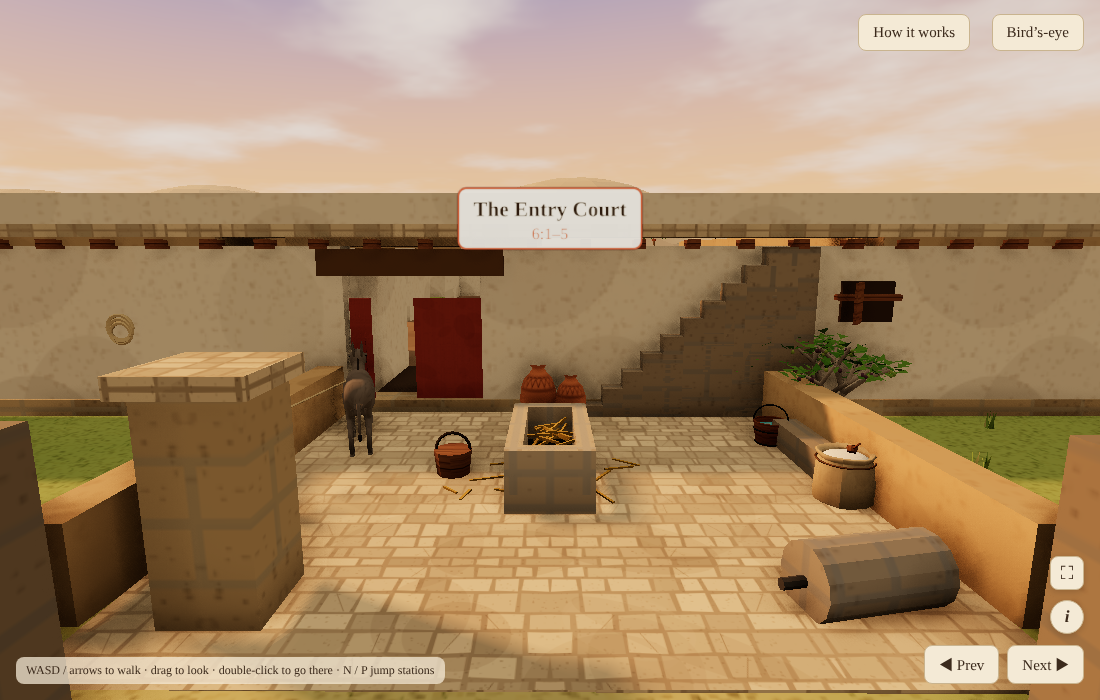
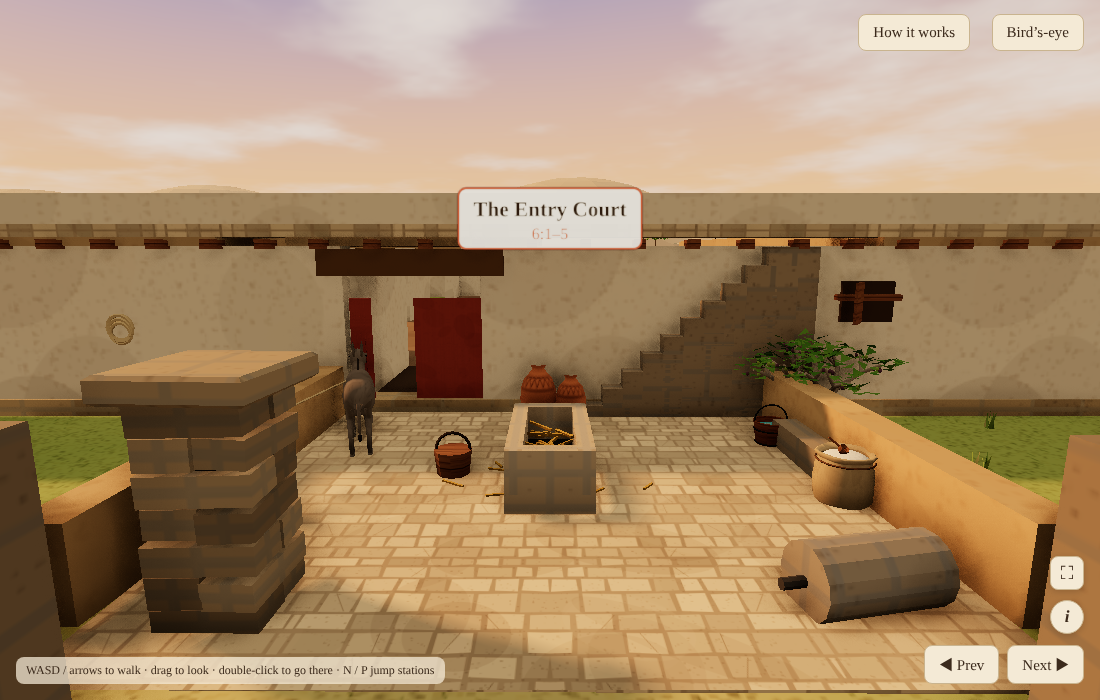
som-ltm: owner critiques — splotchy burn floor, defined charcoal mound, freestanding hive stack and bank end, stone pier, stall roof purlins, rock boundary stone, scarecrow model
Claude-Session: https://claude.ai/code/session_011GTaBjBmrRYMxR8CbFEKPF

diff --git a/ltm-engine/objects/som.js b/ltm-engine/objects/som.js
@@ -195,15 +195,17 @@ def('som-resting-stone', 'Resting stone at the fork of the road', g => {
 
 // ---- the Charcoal Burners' Clearing (5:26–30), rebuilt 2026-11-18 ----
 def('som-charcoal-mound', 'Charcoal burner\'s mound, smoking', g => {
-  const earthD = MM('somEarthDk', '#6a5640', TEX.plaster), turfG = MM('somTurfG', '#5d6a34'), soil = MM('somSoilClod', '#7a6244'), soot = MM('somSoot', '#1e1a16');
-  const geo = new THREE.SphereGeometry(1.55, 22, 12, 0, 6.3, 0, 1.57); const p = geo.attributes.position; for (let i = 0; i < p.count; i++) { const x = p.getX(i), y = p.getY(i), z = p.getZ(i), n = 1 + .07 * Math.sin(x * 5.1 + z * 3.3) + .05 * Math.sin(z * 6.7 - y * 4); p.setXYZ(i, x * n, y * .78 * n, z * n); } geo.computeVertexNormals();
-  add(geo, earthD, 0, 0, 0, g);   // a lumpy dome of earth over the stacked wood
-  for (let i = 0; i < 40; i++) { const a = R(0, 6.3), t = R(.1, 1.25), r = 1.55 * Math.cos(t), y = 1.2 * Math.sin(t); const c = add(new THREE.DodecahedronGeometry(R(.1, .2), 0), i % 3 ? soil : turfG, Math.cos(a) * r, y * .98, Math.sin(a) * r, g); c.scale.y = .5; c.lookAt(0, -3, 0); }   // clods and turves pressed over it
-  for (let k = 0; k < 8; k++) { const a = k / 8 * 6.28 + .2; add(new THREE.CircleGeometry(.08, 6), soot, Math.cos(a) * 1.56, .25, Math.sin(a) * 1.56, g).lookAt(Math.cos(a) * 9, .25, Math.sin(a) * 9); }   // vent holes round the foot
-  cy(g, .18, .22, .08, 10, soot, 0, 1.18, 0);
-  const smoke = new THREE.Group(); g.add(smoke); for (let k = 0; k < 6; k++) { const s = add(new THREE.SphereGeometry(.25 + k * .1, 8, 6), MM('somSmokeThin', '#e2ded6', null, { transparent: true, opacity: .2 - k * .02, depthWrite: false }), k * .32, 1.4 + k * .38, k * .08, smoke); s.scale.set(1.5, .7, 1.2); }   // a thin plume drifting off with the wind   // a soft drifting plume
-  const rk = new THREE.Group(); rk.position.set(1.75, 0, .5); rk.rotation.set(0, -.3, .5); g.add(rk); cy(rk, .03, .03, 2.0, 5, mWoodLt, 0, 0, 0); bx(rk, .5, .06, .08, mWoodDk, 0, 2.0, 0); for (let k = 0; k < 5; k++) cy(rk, .015, .015, .16, 4, mWoodDk, -.2 + k * .1, 2.0, 0);   // the rake leaning, its foot on the ground
-  return 1.35; });
+  const turf = MM('somTurfSq', '#55603a', TEX.stone), earth = MM('somEarthCov', '#6a5440', TEX.plaster), soot = MM('somSoot', '#1e1a16'), bark = MM('somBark2', '#7a6046', TEX.wood), cut = MM('somCutFace2', '#ecd29c');
+  // the stack: billets stood on end in rings round a central chimney, a cone
+  for (let ring = 0; ring < 4; ring++) { const r = .25 + ring * .38, n = 8 + ring * 6, hgt = 1.5 - ring * .3; for (let k = 0; k < n; k++) { const a = k / n * 6.283; const b = cy(g, .07, .08, hgt, 6, bark, Math.cos(a) * r, 0, Math.sin(a) * r); b.rotation.set(Math.sin(a) * .25, 0, -Math.cos(a) * .25); cy(g, .07, .07, .02, 6, cut, Math.cos(a) * (r - .1), hgt - .02, Math.sin(a) * (r - .1)); } }
+  // the earth cover, laid over most of it but not yet over the near side, so the stacked wood shows
+  const geo = new THREE.SphereGeometry(1.62, 22, 10, 2.41, 4.6, 0, 1.45); const p = geo.attributes.position; for (let i = 0; i < p.count; i++) { const x = p.getX(i), y = p.getY(i), z = p.getZ(i); p.setXYZ(i, x, y * .95, z); } geo.computeVertexNormals(); const cov = add(geo, earth, 0, 0, 0, g); cov.material.side = THREE.DoubleSide;
+  for (let i = 0; i < 46; i++) { const a = R(2.5, 6.9), t = R(.15, 1.25), r = 1.63 * Math.sin(Math.PI / 2 - t), y = 1.55 * Math.sin(t); const tf = add(new THREE.BoxGeometry(R(.3, .42), .06, R(.22, .3)), turf, -Math.cos(a) * r, y, Math.sin(a) * r, g); tf.lookAt(0, -2, 0); tf.rotateX(Math.PI / 2); }   // square turves pressed onto the earth
+  for (let k = 0; k < 6; k++) { const a = 2.7 + k * .75; add(new THREE.CircleGeometry(.08, 6), soot, -Math.cos(a) * 1.64, .25, Math.sin(a) * 1.64, g).lookAt(-Math.cos(a) * 9, .25, Math.sin(a) * 9); }
+  cy(g, .17, .2, .1, 10, soot, 0, 1.5, 0);
+  const smoke = new THREE.Group(); g.add(smoke); for (let k = 0; k < 6; k++) { const s = add(new THREE.SphereGeometry(.25 + k * .1, 8, 6), MM('somSmokeThin', '#e2ded6', null, { transparent: true, opacity: .2 - k * .02, depthWrite: false }), k * .32, 1.75 + k * .38, k * .08, smoke); s.scale.set(1.5, .7, 1.2); }
+  const rk = new THREE.Group(); rk.position.set(1.85, 0, -.6); rk.rotation.set(0, .3, .45); g.add(rk); cy(rk, .03, .03, 2.0, 5, mWoodLt, 0, 0, 0); bx(rk, .5, .06, .08, mWoodDk, 0, 2.0, 0); for (let k = 0; k < 5; k++) cy(rk, .015, .015, .16, 4, mWoodDk, -.2 + k * .1, 2.0, 0);
+  return 1.6; });
 def('som-cut-stumps', 'Row of freshly cut stumps', g => {
   const cut = MM('somCutFace2', '#ecd29c'), bark = MM('somBark2', '#7a6046', TEX.wood);
   for (const [x, z, r, h, tilt] of [[-1.4, .2, .3, .45, .2], [0, -.25, .38, .35, -.18], [1.45, .25, .28, .55, .25]]) { lathe(g, [[0, 0], [r * 1.7, 0], [r * 1.3, .07], [r * 1.05, .18], [r, h], [0, h]], bark, x, -.02, z, 12);   // stumps flaring into the ground
@@ -225,21 +227,36 @@ def('som-charcoal-baskets', 'Rush baskets heaped with charcoal', g => {
     for (let i = 0; i < 34; i++) { const a = R(0, 6.3), d = Math.sqrt(R(0, 1)) * .36 * s; add(new THREE.DodecahedronGeometry(R(.05, .085), 0), coal, x + Math.cos(a) * d, .38 * s + (1 - d / (.36 * s)) * .2, z + Math.sin(a) * d, g).rotation.set(R(0, 3), R(0, 3), 0); } }   // a mounded heap of dark grey chunks
   return .7; });
 def('som-ash-ring', 'Old burn floor of an earlier mound', g => {
-  const floor = MM('somBurnFloor', '#4a4540'), coal = MM('somCoalG2', '#2e2b28'), ash = MM('somAshL', '#9c9890');
-  const rg = add(new THREE.CircleGeometry(1.7, 26), floor, 0, .05, 0, g); rg.rotation.x = -Math.PI / 2;   // a grey-black burn floor
-  for (let i = 0; i < 12; i++) { const p = add(new THREE.CircleGeometry(R(.12, .3), 7), ash, R(-1.1, 1.1), .055, R(-1.1, 1.1), g); p.rotation.x = -Math.PI / 2; }   // flecks of ash
-  for (let i = 0; i < 40; i++) { const a = R(0, 6.3), d = Math.sqrt(R(0, 1)) * 1.6; const c = add(new THREE.DodecahedronGeometry(R(.03, .07), 0), coal, Math.cos(a) * d, .06, Math.sin(a) * d, g); c.scale.y = .5; }   // charcoal flecks all over it
+  const floor = MM('somBurnFloor', '#4a4540'), floor2 = MM('somBurnFloor2', '#5c544a', null, { transparent: true, opacity: .7 }), coal = MM('somCoalG2', '#2e2b28'), ash = MM('somAshL', '#9c9890');
+  const blot = (r, m, y, n = 14) => { const sh = new THREE.Shape(); for (let i = 0; i < n; i++) { const a = i / n * 6.283, rr = r * R(.6, 1.15); i ? sh.lineTo(Math.cos(a) * rr, Math.sin(a) * rr) : sh.moveTo(Math.cos(a) * rr, Math.sin(a) * rr); } const o = add(new THREE.ShapeGeometry(sh), m, 0, y, 0, g); o.rotation.x = -Math.PI / 2; return o; };
+  blot(1.5, floor, .05, 18);   // a ragged-edged patch of blackened earth
+  for (let i = 0; i < 9; i++) { const o = blot(R(.3, .7), i % 2 ? floor : floor2, .045 + i * .001, 9); o.position.x = R(-1.6, 1.6); o.position.z = R(-1.6, 1.6); }   // smudges spilling past the edge
+  for (let i = 0; i < 7; i++) { const o = blot(R(.15, .35), ash, .056, 8); o.position.x = R(-.9, .9); o.position.z = R(-.9, .9); }   // drifts of ash
+  for (let i = 0; i < 40; i++) { const a = R(0, 6.3), d = Math.sqrt(R(0, 1)) * 1.6; const c = add(new THREE.DodecahedronGeometry(R(.03, .07), 0), coal, Math.cos(a) * d, .06, Math.sin(a) * d, g); c.scale.y = .5; }
   return .1; });
 
 // ---- the Bee Bank (5:31–35), rebuilt 2026-11-18: one walled bank, the hive pipes set into its far end ----
-def('som-bee-wall', 'Bee wall: a mud-plastered stone bank with hive pipes set in it', g => {
-  const mud = MM('somBeeMud2', '#a99472', TEX.plaster), plug = MM('somPipePlug2', '#d9c7a2', TEX.plaster), rim = MM('somPipeRim', '#c9a27a', TEX.pot);
-  const L = 5.2;
-  bx(g, L - .4, .95, .9, mud, .2, 0, -.05); dryWall(g, -2.3, .42, 2.4, .42, .35, .12);   // the bank, plastered, its stone footing showing
-  for (let i = 0; i < 10; i++) { const p = add(new THREE.CircleGeometry(R(.08, .14), 6), mRock, R(-2.2, 2.3), R(.4, .85), .405, g); }   // stones showing through the plaster
-  lathe(g, [[0, 0], [.55, 0], [.52, .5], [.46, .85], [.3, 1.0], [0, 1.03]], mud, -L / 2 + .25, 0, -.05, 14);   // its near end rounded off in the same mud
-  for (let row = 0; row < 3; row++) for (let k = 0; k < 4 - row; k++) { const x = .55 + k * .44 + row * .22, y = .24 + row * .32; cy(g, .19, .19, .08, 14, rim, x, y, .42, Math.PI / 2); cy(g, .16, .16, .02, 12, plug, x, y, .465, Math.PI / 2); add(new THREE.CircleGeometry(.04, 8), mDark, x, y - .06, .478, g); }   // only the ends of the clay pipes show, set deep in the bank, each sealed with mud and a small entrance
-  for (let i = 0; i < 22; i++) { const b = add(new THREE.SphereGeometry(.022, 5, 4), MM('somBee', '#3a2a10'), R(.4, 2.2), R(.15, 1.0), R(.55, .9), g); b.scale.x = 1.7; }
-  return 1.05; });
+def('som-bee-wall', 'Freestanding stack of clay hive pipes on a stone base', g => {
+  const pipe = MM('somPipeLong', '#c9a27a', TEX.pot), plug = MM('somPipePlug2', '#d9c7a2', TEX.plaster), cap = MM('somCapSlab', '#b8ae9a', TEX.stone);
+  for (let i = 0; i < 9; i++) boulder(g, R(.22, .3), i % 2 ? mRock : mRockDk, -.75 + (i % 5) * .38 + R(-.05, .05), -.05, -.25 + Math.floor(i / 5) * .45, .55);   // a low base of field stones
+  const rows = [4, 3, 2]; rows.forEach((n, row) => { for (let k = 0; k < n; k++) { const x = (k - (n - 1) / 2) * .4, y = .45 + row * .34; cy(g, .17, .17, 1.1, 14, pipe, x, y, 0, Math.PI / 2); cy(g, .15, .15, .02, 12, plug, x, y, .56, Math.PI / 2); add(new THREE.CircleGeometry(.035, 8), mDark, x, y - .06, .575, g); } });   // long clay pipes stacked 4-3-2, mud-sealed ends with a small entrance
+  slab(g, .95, .1, cap, 0, 1.35, 0, 7);   // a flat stone laid on top to shade them
+  for (let i = 0; i < 16; i++) { const b = add(new THREE.SphereGeometry(.02, 5, 4), MM('somBee', '#3a2a10'), R(-.7, .7), R(.35, 1.2), R(.62, .9), g); b.scale.x = 1.7; }
+  return 1.45; });
+
+
+def('som-bank-end', 'Low end of a field bank, capped with a flat stone', g => {
+  for (let i = 0; i < 14; i++) boulder(g, R(.22, .32), i % 3 ? mRock : mRockDk, R(-.6, .6), i < 9 ? 0 : .22, R(-.4, .4), .75);   // a rough heap of field stones
+  slab(g, .7, .14, MM('somCapStone2', '#cdc3ae', TEX.stone), 0, .5, 0, 7); thornBush(g, .7, 0, -.5, .6);
+  return .9; });
+def('som-scarecrow', 'Scarecrow in an old robe', g => {
+  const robe = MM('somRagRobe', '#8a6a4a', TEX.cloth), sash = MM('somRagSash', '#a8523a', TEX.cloth);
+  cy(g, .045, .05, 2.3, 6, mWood, 0, 0, 0); cy(g, .035, .035, 1.5, 6, mWood, 0, 1.65, 0, 0, 0, Math.PI / 2);   // pole and cross-stick
+  const rb = lathe(g, [[0, 0], [.42, 0], [.36, .2], [.28, .6], [.22, .95], [.14, 1.05], [0, 1.08]], robe, 0, .75, 0, 12); rb.material.side = THREE.DoubleSide;   // a long robe hanging from the shoulders
+  for (const s of [-1, 1]) { const sl = cy(g, .1, .14, .62, 8, robe, s * .45, 1.62, 0, 0, 0, Math.PI / 2); for (let k = 0; k < 4; k++) cy(g, .012, .012, R(.15, .25), 3, MM('somStrawM2', '#e2c464'), s * .78, 1.62 + R(-.06, .06), R(-.06, .06), 0, 0, Math.PI / 2 + R(-.4, .4)); }   // sleeves, straw poking from the cuffs
+  add(new THREE.TorusGeometry(.2, .035, 5, 14), sash, 0, 1.35, 0, g).rotation.x = Math.PI / 2;   // a rag sash
+  const hd = add(new THREE.SphereGeometry(.17, 10, 8), MM('somBurlap', '#c8b07a', TEX.cloth), 0, 2.0, 0, g); hd.scale.y = 1.15;   // a sacking head
+  lathe(g, [[0, 0], [.32, 0], [.3, .03], [.14, .06], [.12, .2], [0, .22]], MM('somStrawHat', '#d8b860', TEX.wicker), 0, 2.13, 0, 12);   // a straw hat
+  return 2.4; });
 
 }

diff --git a/som-ltm/world/farm.js b/som-ltm/world/farm.js
@@ -50,7 +50,11 @@ defBuilder('som.court', (r, { ch }) => { const F = roomFrame(r), h = 2.6, sp = S
   // the paved court in front of the farmhouse; the house front is the farmhouse's north wall (f = 3.4), its door at s = -3.6 … -1.2
   const stoneT = mat('somCourtStone', '#a39a8a'); stoneT.map = TEX.stone;
   { const g = atR(F, 0, 0); box(2 * h + 2, .08, 2 * h + 2, paleM, 0, 0, 0, g); }                                      // the paving
-  { const g = atR(F, -h, -h); box(.8, 1.9, .8, dryStone, 0, 0, 0, g); box(1, .18, 1, paleM, 0, 1.9, 0, g); out.push(ground(sp[0], 2.2)); }   // 1: the gate's left pier, squared, with its cap
+  { const g = atR(F, -h, -h); const tones = ['#a39a88', '#8f8676', '#b4aa96'].map((c, i) => { const m = mat('somPierStone' + i, c); m.map = TEX.stone; return m; });
+    box(.62, 1.9, .62, darkM, 0, 0, 0, g);   // the mortar core
+    for (let row = 0; row < 7; row++) { const y = row * .27, rot = row % 2; for (let k = 0; k < 2; k++) { const st = box(rot ? .42 : .82 * R(.92, 1.04), .25 * R(.9, 1.05), rot ? .82 * R(.92, 1.04) : .42, tones[(row + k) % 3], rot ? (k ? .21 : -.21) : R(-.03, .03), y, rot ? R(-.03, .03) : (k ? .21 : -.21), g); st.rotation.set(R(-.03, .03), R(-.06, .06), R(-.03, .03)); } }   // rough-dressed stones, laid in alternating courses
+    const cap = new THREE.Shape(); [[-.55, -.5], [.5, -.56], [.58, .45], [-.5, .55]].forEach(([a, b], i) => i ? cap.lineTo(a, b) : cap.moveTo(a, b)); const cg = new THREE.ExtrudeGeometry(cap, { depth: .16, bevelEnabled: true, bevelThickness: .03, bevelSize: .04, bevelSegments: 1 }); cg.rotateX(-Math.PI / 2); add(cg, tones[2], 0, 1.9, 0, g);
+    out.push(ground(sp[0], 2.25)); }   // 1: the gate's left pier of rough stones, a flat capstone on top
   { for (const sd of [-1, 1]) { const g = atR(F, .4, sd * (h + 1.3)); box(.45, .9, 2 * h + 1.4, mudM, 0, 0, 0, g); } }   // low walls closing the court on either side
   // the house front: a cornice and parapet along the flat roof line, a footing course, a roofed entry passage behind the door
   { const g = atR(F, 3.4, 0); box(32.6, .22, .8, paleM, 2, 3.15, 0, g); box(32.6, .5, .3, plasterM, 2, 3.37, .25, g); box(32.6, .35, .62, dryStone, 2, -.05, 0, g); }
@@ -114,6 +118,9 @@ defBuilder('som.stall', (r, { ch }) => { const F = roomFrame(r), h = 2.5, sp = S
   const g = atR(F, 0, 0, Math.PI);
   box(.4, 2.6, 2 * h + 1.8, dryStone, -h - .9, 0, .2, g);   // the west (outside) wall left open box(2 * h + 2.2, 2.6, .4, dryStone, 0, 0, h + 1, g);   // three walls, open front
   for (let k = -2; k <= 2; k++) box(.2, .2, 2 * h + 2.4, 'wood', k * 1.4, 2.6, .2, g);   // open roof beams, so the stall is lit
+  for (const z of [-h - .2, 0, h + .2]) box(2 * h + 2.6, .16, .18, 'wood', 0, 2.8, z, g);   // purlins laid across the beams
+  box(2 * h + 2.4, .2, .3, 'wood', h + .9, 2.55, .2, g).rotation.y = Math.PI / 2; box(2 * h + 2.4, .2, .3, 'wood', 0, 2.55, h + 1, g);   // wall plates the beams rest on
+  { const th = mat('somBrushRoof', '#a89060'); th.map = TEX.wicker; box(2 * h + 2.6, .1, h + 1.3, th, 0, 2.93, h / 2 + .75, g); }   // brush laid over the back half
   { const s2 = atR(F, -h, -h); box(.35, 2.6, .35, 'wood', 0, 0, 0, s2); out.push(ground(sp[0], 1.4)); }                     // the left stall post
   out.push(somAt(F, F.at(h + .55, -h + .2), 'som-yoke-on-peg', 0, .85)); out[out.length - 1].y -= .3;   // 2: the yoke on its peg (workshop model)
   { const s2 = atR(F, h, h, .3); const b = box(.16, .16, 2.3, 'woodLt', 0, .55, 0, s2); b.rotation.x = .3; const sh = box(.14, .55, .45, ironM, 0, .05, 1.05, s2); sh.rotation.x = -.5; const hn = box(.1, .9, .1, 'woodLt', 0, .55, -1.05, s2); hn.rotation.x = -.4; box(.5, .08, .08, 'woodLt', 0, 1.0, -1.2, s2); out.push(ground(sp[2], .85)); }   // the plough
@@ -124,9 +131,9 @@ defBuilder('som.stall', (r, { ch }) => { const F = roomFrame(r), h = 2.5, sp = S
 
 // ---- 6.6 THE GRANARY FIELD (6:26–30): terrace steps · lentils · scarecrow · granary door · hoe in the furrow ----
 defBuilder('som.granary', (r, { ch }) => { const F = roomFrame(r), h = 2.5, sp = SQ(h).map(([f, s]) => F.at(f, s)), out = [];
-  { const g = atR(F, -h, -h, .3); const st = box(.45, 1.0, .3, rockM, 0, -.1, 0, g); st.rotation.z = .06; box(.47, .12, .32, paleM, 0, .86, 0, g); out.push(ground(sp[0], 1.0)); }   // 1: the boundary stone at the field's corner, its top whitened (the steps are gone, owner 2026-11-18)
+  { const [x, z] = sp[0]; const top = somRock(x, z, .55); add(new THREE.SphereGeometry(.3, 8, 5, 0, 6.3, 0, 1.2), mat('somWhitewash', '#ece6d6'), x, top - .12, z).scale.y = .35; out.push({ x, z, y: top + .15 }); }   // 1: the boundary stone, a field rock with its top whitened
   { const [x, z] = sp[1]; libAt('garden-plot', x, z, F.yaw, .8); out.push(ground(sp[1], .35)); }   // the patch of lentils
-  { const g = atR(F, h, h); cyl(.05, .05, 2.2, 5, 'wood', 0, 0, 0, g); box(1.3, .06, .06, 'wood', 0, 1.6, 0, g); const rag = mat('somRag', '#9a6a4a'); rag.map = TEX.cloth; box(.7, .9, .22, rag, 0, 1.0, 0, g); for (const sd of [-1, 1]) box(.35, .5, .05, rag, sd * .55, 1.2, .1, g); add(new THREE.SphereGeometry(.2, 8, 6), strawM, 0, 2.05, 0, g); add(new THREE.ConeGeometry(.3, .25, 8), strawM, 0, 2.3, 0, g); out.push(ground(sp[2], .5)); }   // the scarecrow
+  out.push(somAt(F, sp[2], 'som-scarecrow', 0)); out[out.length - 1].y -= 1.0;   // 3: the scarecrow (library model)
   { const g = atR(F, -h + .9, h + 1.5, -Math.PI / 2); g.scale.setScalar(.8); box(2.6, 2.6, 2.6, dryStone, 0, 0, 0, g); add(new THREE.SphereGeometry(1.35, 10, 6, 0, 6.3, 0, 1.57), mudM, 0, 2.6, 0, g).scale.y = .7; box(.9, 1.6, .1, 'wood', 0, 0, 1.33, g); box(1.1, .12, .2, 'woodLt', 0, 1.6, 1.36, g); out.push(ground(F.at(-h + .9, h + .6), .15)); }   // the stone granary, its door facing the field
   { for (let k = -2; k <= 2; k++) { const [x, z] = F.at(k * .6, 0); const fr = box(.25, .1, 3.2, mudM, x, heightAt(x, z) - .02, z); fr.rotation.y = F.yaw; }
     const [x, z] = F.at(0, .3); const hd = cyl(.05, .05, 1.8, 6, 'woodLt', x, heightAt(x, z) + .14, z); hd.rotation.set(0, F.yaw, .9); hd.position.y += .6; const [bx2, bz2] = F.at(0, 1.2); const bl = box(.1, .4, .36, ironM, bx2, heightAt(bx2, bz2) + .02, bz2); bl.rotation.y = F.yaw; out.push({ x: F.x, z: F.z, y: F.y + .3 }); }   // furrows and the hoe

diff --git a/som-ltm/world/mount.js b/som-ltm/world/mount.js
@@ -128,8 +128,8 @@ defBuilder('som.charcoal', (r, { ch }) => { const F = roomFrame(r), h = 2.6, sp 
 
 // ---- 5.7 THE BEE BANK (5:31–35): capped bank end · stacked hive pipes · smoker pot · bees' water dish · tray of comb ----
 defBuilder('som.bees', (r, { ch }) => { const F = roomFrame(r), h = 2.5, sp = SQ(h).map(([f, s]) => F.at(f, s)), out = [];
-  { const g = atR(F, 0, -h - .4, Math.PI / 2); const top = OBJECTS.get('som-bee-wall').fn(g, 0, 0, 0);   // the bee wall along the left: near end capped, hive pipes in its far half
-    out.push(ground(F.at(-2.5, -h - .4), top + .25)); out.push(ground(F.at(1.6, -h - .4), .95)); }
+  out.push(somAt(F, F.at(-h, -h - .2), 'som-bank-end', .4));          // 1: the low bank end, capped with a flat stone (owner, 2026-11-18: smaller, natural)
+  out.push(somAt(F, F.at(h - .2, -h - .3), 'som-bee-wall', .35));     // 2: the hive pipes, stacked on their own stone base
   { const g = atR(F, h, h); somRock(...F.at(h, h), .45); cyl(.22, .28, .55, 10, clayM, 0, .5, 0, g); const sp2 = cyl(.04, .06, .3, 6, clayM, .16, .82, 0, g); sp2.rotation.z = -.6; for (let k = 0; k < 4; k++) { const m = add(new THREE.SphereGeometry(.12 + k * .06, 8, 6), mat('somSmoke', '#e6e1da', { transparent: true, opacity: .5 }), .3 + k * .12, 1.0 + k * .3, 0, g); } out.push(ground(sp[2], 1.0)); }   // the smoker pot, smoking
   { const g = atR(F, -h, h); const bw = add(new THREE.SphereGeometry(.45, 14, 6, 0, 6.3, Math.PI / 2, Math.PI / 2), clayM, 0, .3, 0, g); bw.material.side = THREE.DoubleSide; add(new THREE.CircleGeometry(.4, 14), mat('somWater', '#6fb3c8'), 0, .24, 0, g).rotation.x = -Math.PI / 2; for (let k = 0; k < 3; k++) add(new THREE.DodecahedronGeometry(.07, 0), rockM, -.15 + k * .15, .27, R(-.1, .1), g); out.push(ground(sp[3], .45)); }   // a shallow clay bowl of water, stones for the bees to land on
   { const g = atR(F, 0, 0); box(1.1, .6, .8, rockM, 0, 0, 0, g); box(1, .07, .7, 'woodLt', 0, .6, 0, g); for (let a = 0; a < 6; a++) for (let b = 0; b < 4; b++) cyl(.07, .07, .1, 6, combM, -.38 + a * .15 + (b % 2) * .075, .68, -.25 + b * .13, g); for (let k = 0; k < 12; k++) add(new THREE.SphereGeometry(.035, 5, 4), darkM, R(-.8, .8), R(.9, 1.6), R(-.6, .6), g); out.push({ x: F.x, z: F.z, y: F.y + .85 }); }   // the tray of golden comb on a stone

diff --git a/som-ltm/INSTRUCTIONS.md b/som-ltm/INSTRUCTIONS.md
@@ -34,3 +34,12 @@ Chapter 5: the Sheepfold sits on the path, and you walk in through its gate; the
 - Near-repeats are fine; there's no need to remove them.
 - Rules: check the library before making an object, and add anything new worth reusing to the library automatically. → ltm-engine/docs/RULES.md.
 - Camera: Next should walk along the path and turn to the room, as in the owner's GIF, instead of gliding across like a teleport. → after.js builds each walk from TRAIL; the walking pace is 6 m/s.
+
+## 17 — Owner critiques, 2026-11-18
+- Charcoal clearing: improve every object. Burn floor: splotchy, not a smooth circle. Make the mound more defined, not a "pile of peanut butter". The baskets are good. → Done: a ragged burn floor, and a mound of stacked billets half covered in earth and turves.
+- Bee bank: the long rectangle is too symmetrical and the hive is embedded in it. → A small capped bank end (spot 1) and a freestanding stack of hive pipes on a stone base (spot 2).
+- Entry court: run it through the room critic to phase 4 (8). The gate pier looked like Minecraft. → Now rough-dressed stones in alternating courses with a capstone. Critic: 5.2 → 6.0 → 6.9.
+- Storeroom: one room, with no room-within-a-room and no jars in the wall. → Done.
+- Rename the Cistern Court → "The Cistern".
+- Ox stall: the ox faces the viewer; roof beams shouldn't float. → Purlins, wall plates and brush added. Run the yoke through the model critic → 3.9 → 6.2.
+- Granary: remove the staircase → boundary stone, now a natural rock. Rebuild the blocky scarecrow → new library model.
